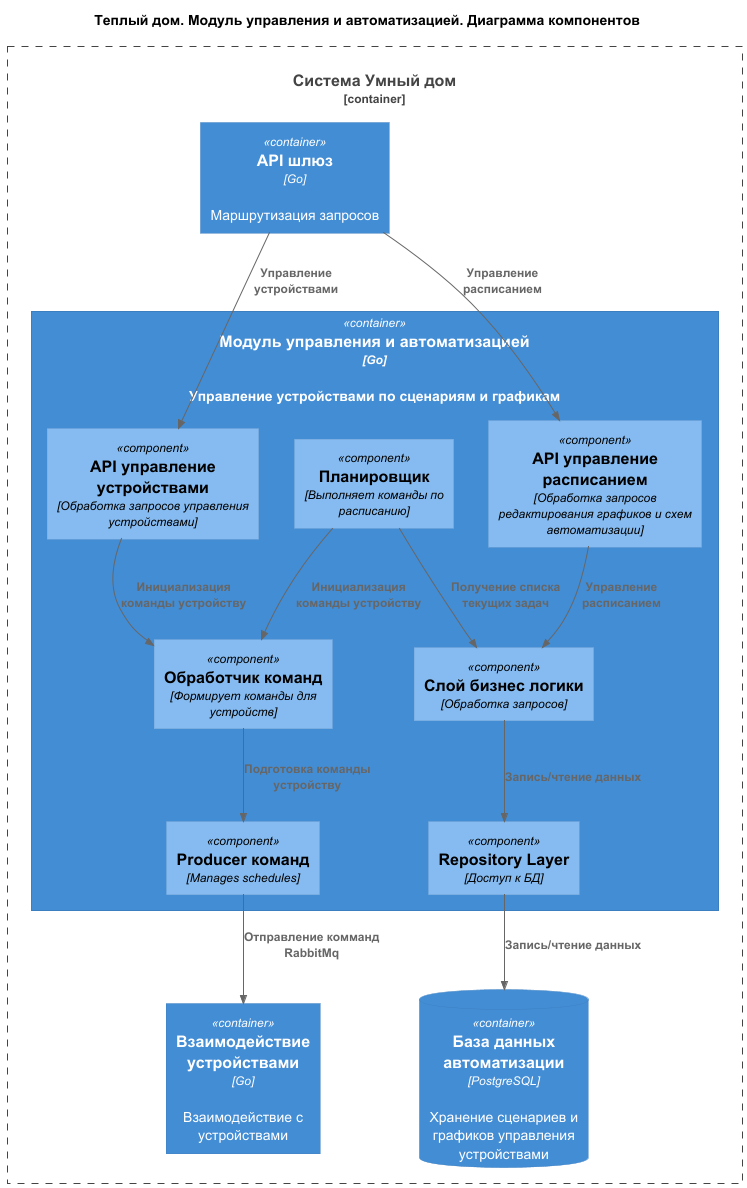
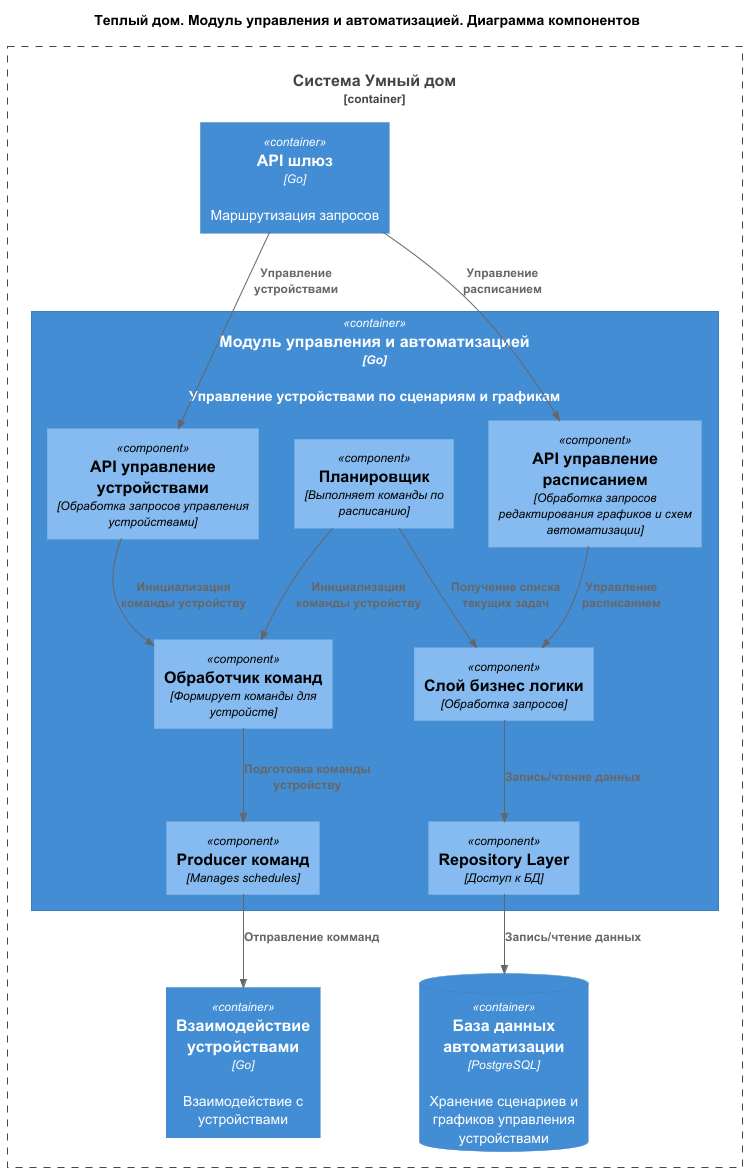
update links

Changed region(s): [[0.0308, 0.0614, 0.9545, 0.9829]]

diff --git a/README.md b/README.md
@@ -51,43 +51,33 @@
 
 ### 5. Визуализация контекста системы — диаграмма С4
 
-```markdown
-[Текст ссылки](URL)
-```
-
-Замените `Текст ссылки` текстом, который хотите использовать для ссылки. Вместо `URL` вставьте адрес, на который должна вести ссылка. Например:
-
-```markdown
-[Посетите Яндекс](https://ya.ru/)
-```
+[Context](https://github.com/binaril/architecture-warmhouse/blob/warmhouse/diagrams/images/C4.Context.png)
 
 # Задание 2. Проектирование микросервисной архитектуры
 
-В этом задании вам нужно предоставить только диаграммы в модели C4. Мы не просим вас отдельно описывать получившиеся микросервисы и то, как вы определили взаимодействия между компонентами To-Be системы. Если вы правильно подготовите диаграммы C4, они и так это покажут.
-
 **Диаграмма контейнеров (Containers)**
 
-Добавьте диаграмму.
+[Containers](https://github.com/binaril/architecture-warmhouse/blob/warmhouse/diagrams/images/C4.Containers.png)
 
 **Диаграмма компонентов (Components)**
 
-[Automatic](https://github.com/binaril/architecture-warmhouse/blob/warmhouse/diagrams/images/C4.Component.Automatic.png)
+[Component.Automatic](https://github.com/binaril/architecture-warmhouse/blob/warmhouse/diagrams/images/C4.Component.Automatic.png)
 
-[DeviceControl](https://github.com/binaril/architecture-warmhouse/blob/warmhouse/diagrams/images/C4.Component.DeviceControl.png)
+[Component.DeviceControl](https://github.com/binaril/architecture-warmhouse/blob/warmhouse/diagrams/images/C4.Component.DeviceControl.png)
 
-[DeviceRepository](https://github.com/binaril/architecture-warmhouse/blob/warmhouse/diagrams/images/C4.Component.DeviceRepository.png)
+[Component.DeviceRepository](https://github.com/binaril/architecture-warmhouse/blob/warmhouse/diagrams/images/C4.Component.DeviceRepository.png)
 
-[GateWay](https://github.com/binaril/architecture-warmhouse/blob/warmhouse/diagrams/images/C4.Component.GateWay.png)
+[Component.GateWay](https://github.com/binaril/architecture-warmhouse/blob/warmhouse/diagrams/images/C4.Component.GateWay.png)
 
-[Notification](https://github.com/binaril/architecture-warmhouse/blob/warmhouse/diagrams/images/C4.Component.Notification.png)
+[Component.Notification](https://github.com/binaril/architecture-warmhouse/blob/warmhouse/diagrams/images/C4.Component.Notification.png)
 
-[Telemetry](https://github.com/binaril/architecture-warmhouse/blob/warmhouse/diagrams/images/C4.Component.Telemetry.png)
+[Component.Telemetry](https://github.com/binaril/architecture-warmhouse/blob/warmhouse/diagrams/images/C4.Component.Telemetry.png)
 
-[UserAccess](https://github.com/binaril/architecture-warmhouse/blob/warmhouse/diagrams/images/C4.Component.UserAccess.png)
+[Component.UserAccess](https://github.com/binaril/architecture-warmhouse/blob/warmhouse/diagrams/images/C4.Component.UserAccess.png)
 
-[WebApp](https://github.com/binaril/architecture-warmhouse/blob/warmhouse/diagrams/images/C4.Component.WebApp.png)
+[Component.WebApp](https://github.com/binaril/architecture-warmhouse/blob/warmhouse/diagrams/images/C4.Component.WebApp.png)
 
-[WebAppAdmin](https://github.com/binaril/architecture-warmhouse/blob/warmhouse/diagrams/images/C4.Component.WebAppAdmin.png)
+[Component.WebAppAdmin](https://github.com/binaril/architecture-warmhouse/blob/warmhouse/diagrams/images/C4.Component.WebAppAdmin.png)
 
 **Диаграмма кода (Code)**
 
@@ -95,17 +85,17 @@
 
 # Задание 3. Разработка ER-диаграммы
 
-Добавьте сюда ER-диаграмму. Она должна отражать ключевые сущности системы, их атрибуты и тип связей между ними.
+[ER](https://github.com/binaril/architecture-warmhouse/blob/warmhouse/diagrams/images/ER.png)
 
 # Задание 4. Создание и документирование API
 
 ### 1. Тип API
 
-Для взаимодействия большинства компонентов будет использоваться REST API. Так как большая часть взаимодействия подрузомевает немедленное получение ответа (получить список устройств, получить список параметров и т.д.
+Для взаимодействия компонентов будет использоваться REST API. Так как большая часть взаимодействия подразумевает немедленное получение ответа (получить список устройств, получить список параметров и т.д.) то удобнее использовать синхронное взаимодействие
 
 ### 2. Документация API
 
-Здесь приложите ссылки на документацию API для микросервисов, которые вы спроектировали в первой части проектной работы. Для документирования используйте Swagger/OpenAPI или AsyncAPI.
+[Swagger](https://github.com/binaril/architecture-warmhouse/blob/warmhouse/apps/swagger.yaml)
 
 # Задание 5. Работа с docker и docker-compose
 
